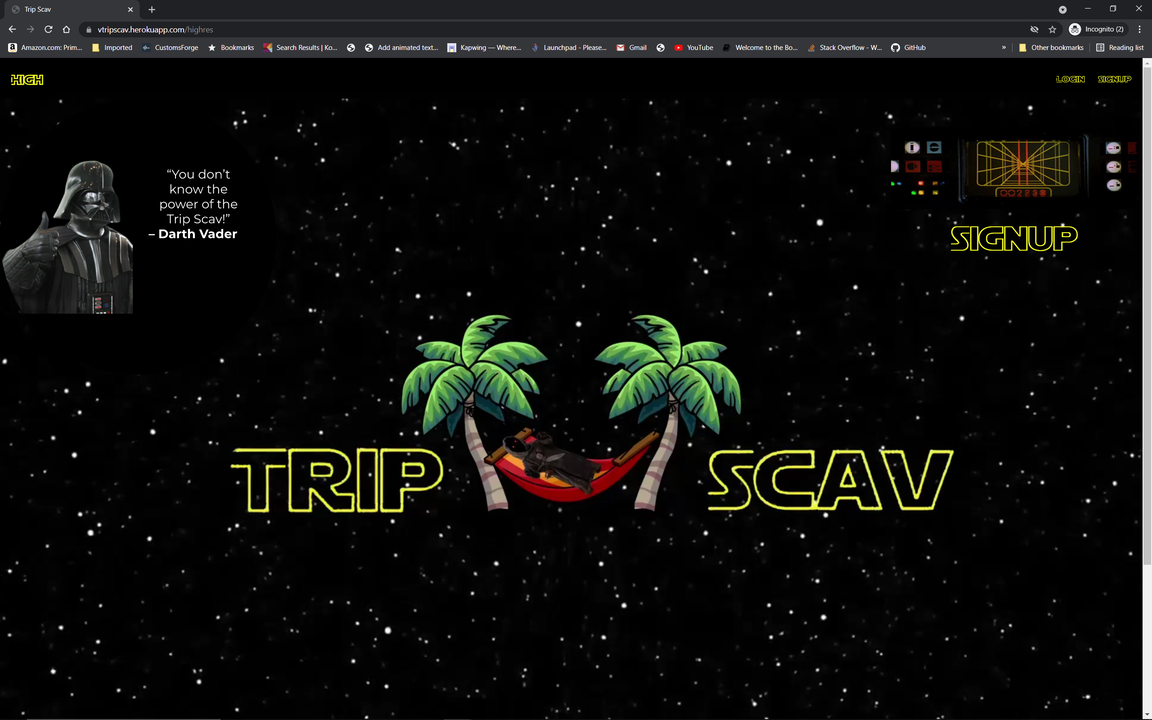
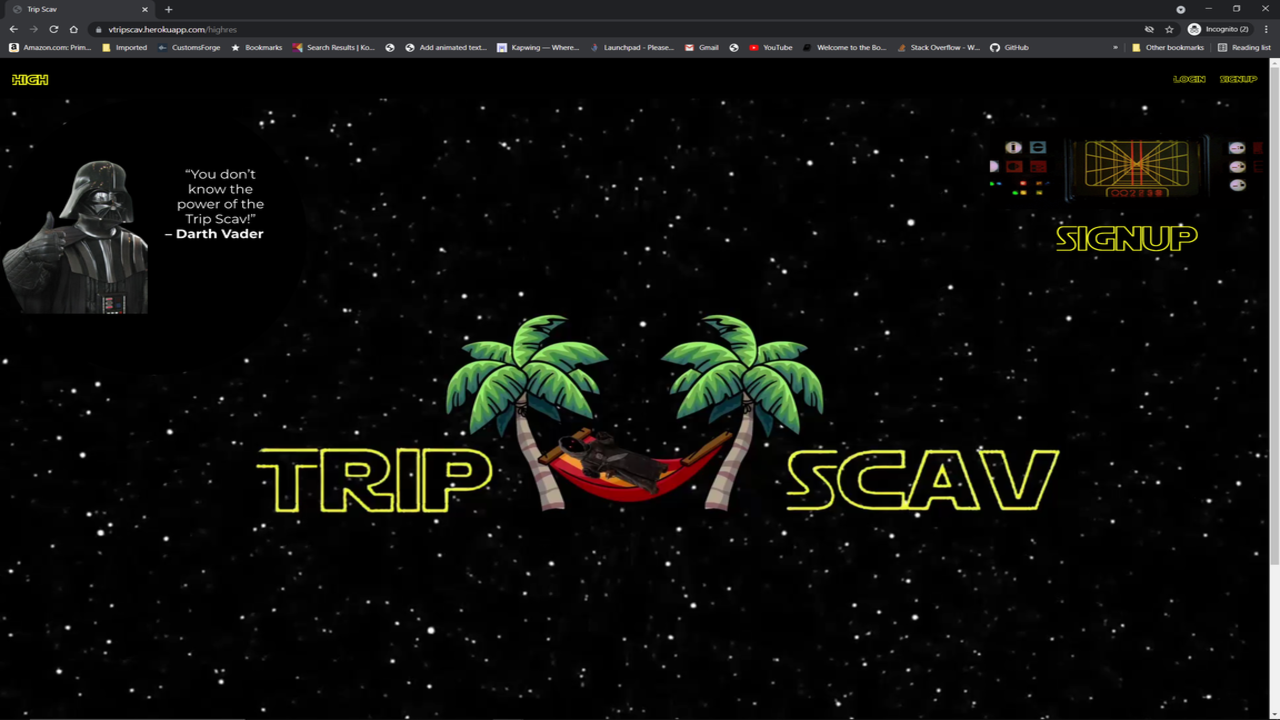
media screens in place for portfolio display

diff --git a/src/App.css b/src/App.css
@@ -22,11 +22,17 @@
   background:grey;
 }
 
+.card-text{
+  font-size:18px;
+}
 
 .card {
   max-width:15rem;
   border-radius:55px;
   margin:auto;
+  max-height:27rem;
+  flex-grow:0;
+  min-height:27rem;
 }
 
 .card-img-top{
@@ -38,6 +44,13 @@
 
 .card-title {
   color:black;
+}
+
+.card-body{
+  border-style:solid;
+  border-width:.5px;
+  border-color:green;
+
 }
 
 
@@ -56,6 +69,7 @@
 p {
   font-family:"Digital";
   color:black;
+  
 
 }
 
@@ -74,7 +88,8 @@ p {
   background-image:url("./images/Space.jpg");
   background-size:cover;
   background-repeat:no-repeat;
-  background-position:5%;
+  min-height:100vh;
+  /* background-position:65%; */
   font-size: calc(10px + 2vmin);
   color: white;
   z-index:-1;
@@ -96,4 +111,73 @@ p {
 
 .btn{
   margin-bottom:5px;
+}
+
+
+
+
+
+
+
+
+@media (min-width:1401px) and (max-width:1763px){
+  .content-container{
+  max-width:79%;
+  }
+  /* .App{
+    background-position:60%;
+  }
+   */
+}
+
+
+
+
+
+@media (min-width:1920px) and (max-width:4000px){
+  .content-container{
+  max-width:65%;
+  }
+  /* .App{
+    background-position:60%;
+  }
+   */
+}
+
+
+
+
+@media (min-width:1753px) and (max-width:1920px){
+  .content-container{
+  max-width:73%;
+  }
+  /* .App{
+    background-position:60%;
+  }
+   */
+}
+
+@media (min-width:1401px) and (max-width:1753px){
+  .content-container{
+  max-width:80%;
+  }
+  /* .App{
+    background-position:60%;
+  }
+   */
+}
+
+
+
+
+@media (min-width:500px) {
+  .content-container{
+    flex-wrap:wrap;
+    flex-direction:row;
+    
+  }
+  /* .App{
+    background-position:60%;
+  }
+   */
 }

diff --git a/src/Portfolio.js b/src/Portfolio.js
@@ -5,7 +5,7 @@ import Footer from './Footer';
 import Form from './Form';
 import FirstPhoto from './images/TS.png'
 import SecondPhoto from './images/Tech.png'
-import ThirdPhoto from './images/Dwight.jpg'
+import ThirdPhoto from './images/Dwight.png'
 import FourthPhoto from './images/Ballfinder.png'
 import FifthPhoto from './images/Gyp.png'
 import SixthPhoto from './images/Pass.png'
@@ -56,7 +56,7 @@ export default function Portfolio() {
           key={name.id}
           title={name.title}
           img={name.img}
-          body={name.body}
+          body={projects[0].body}
           url={name.url}
           repo={name.repo}
 

diff --git a/src/Content.js b/src/Content.js
@@ -16,7 +16,6 @@ const content = (props) => {
       <Card.Header>{props.title}</Card.Header>
   <Card.Img variant="top" src={props.img} />
   <Card.Body>
-    <Card.Title></Card.Title>
     <Card.Text>
       {props.body}
     </Card.Text>
